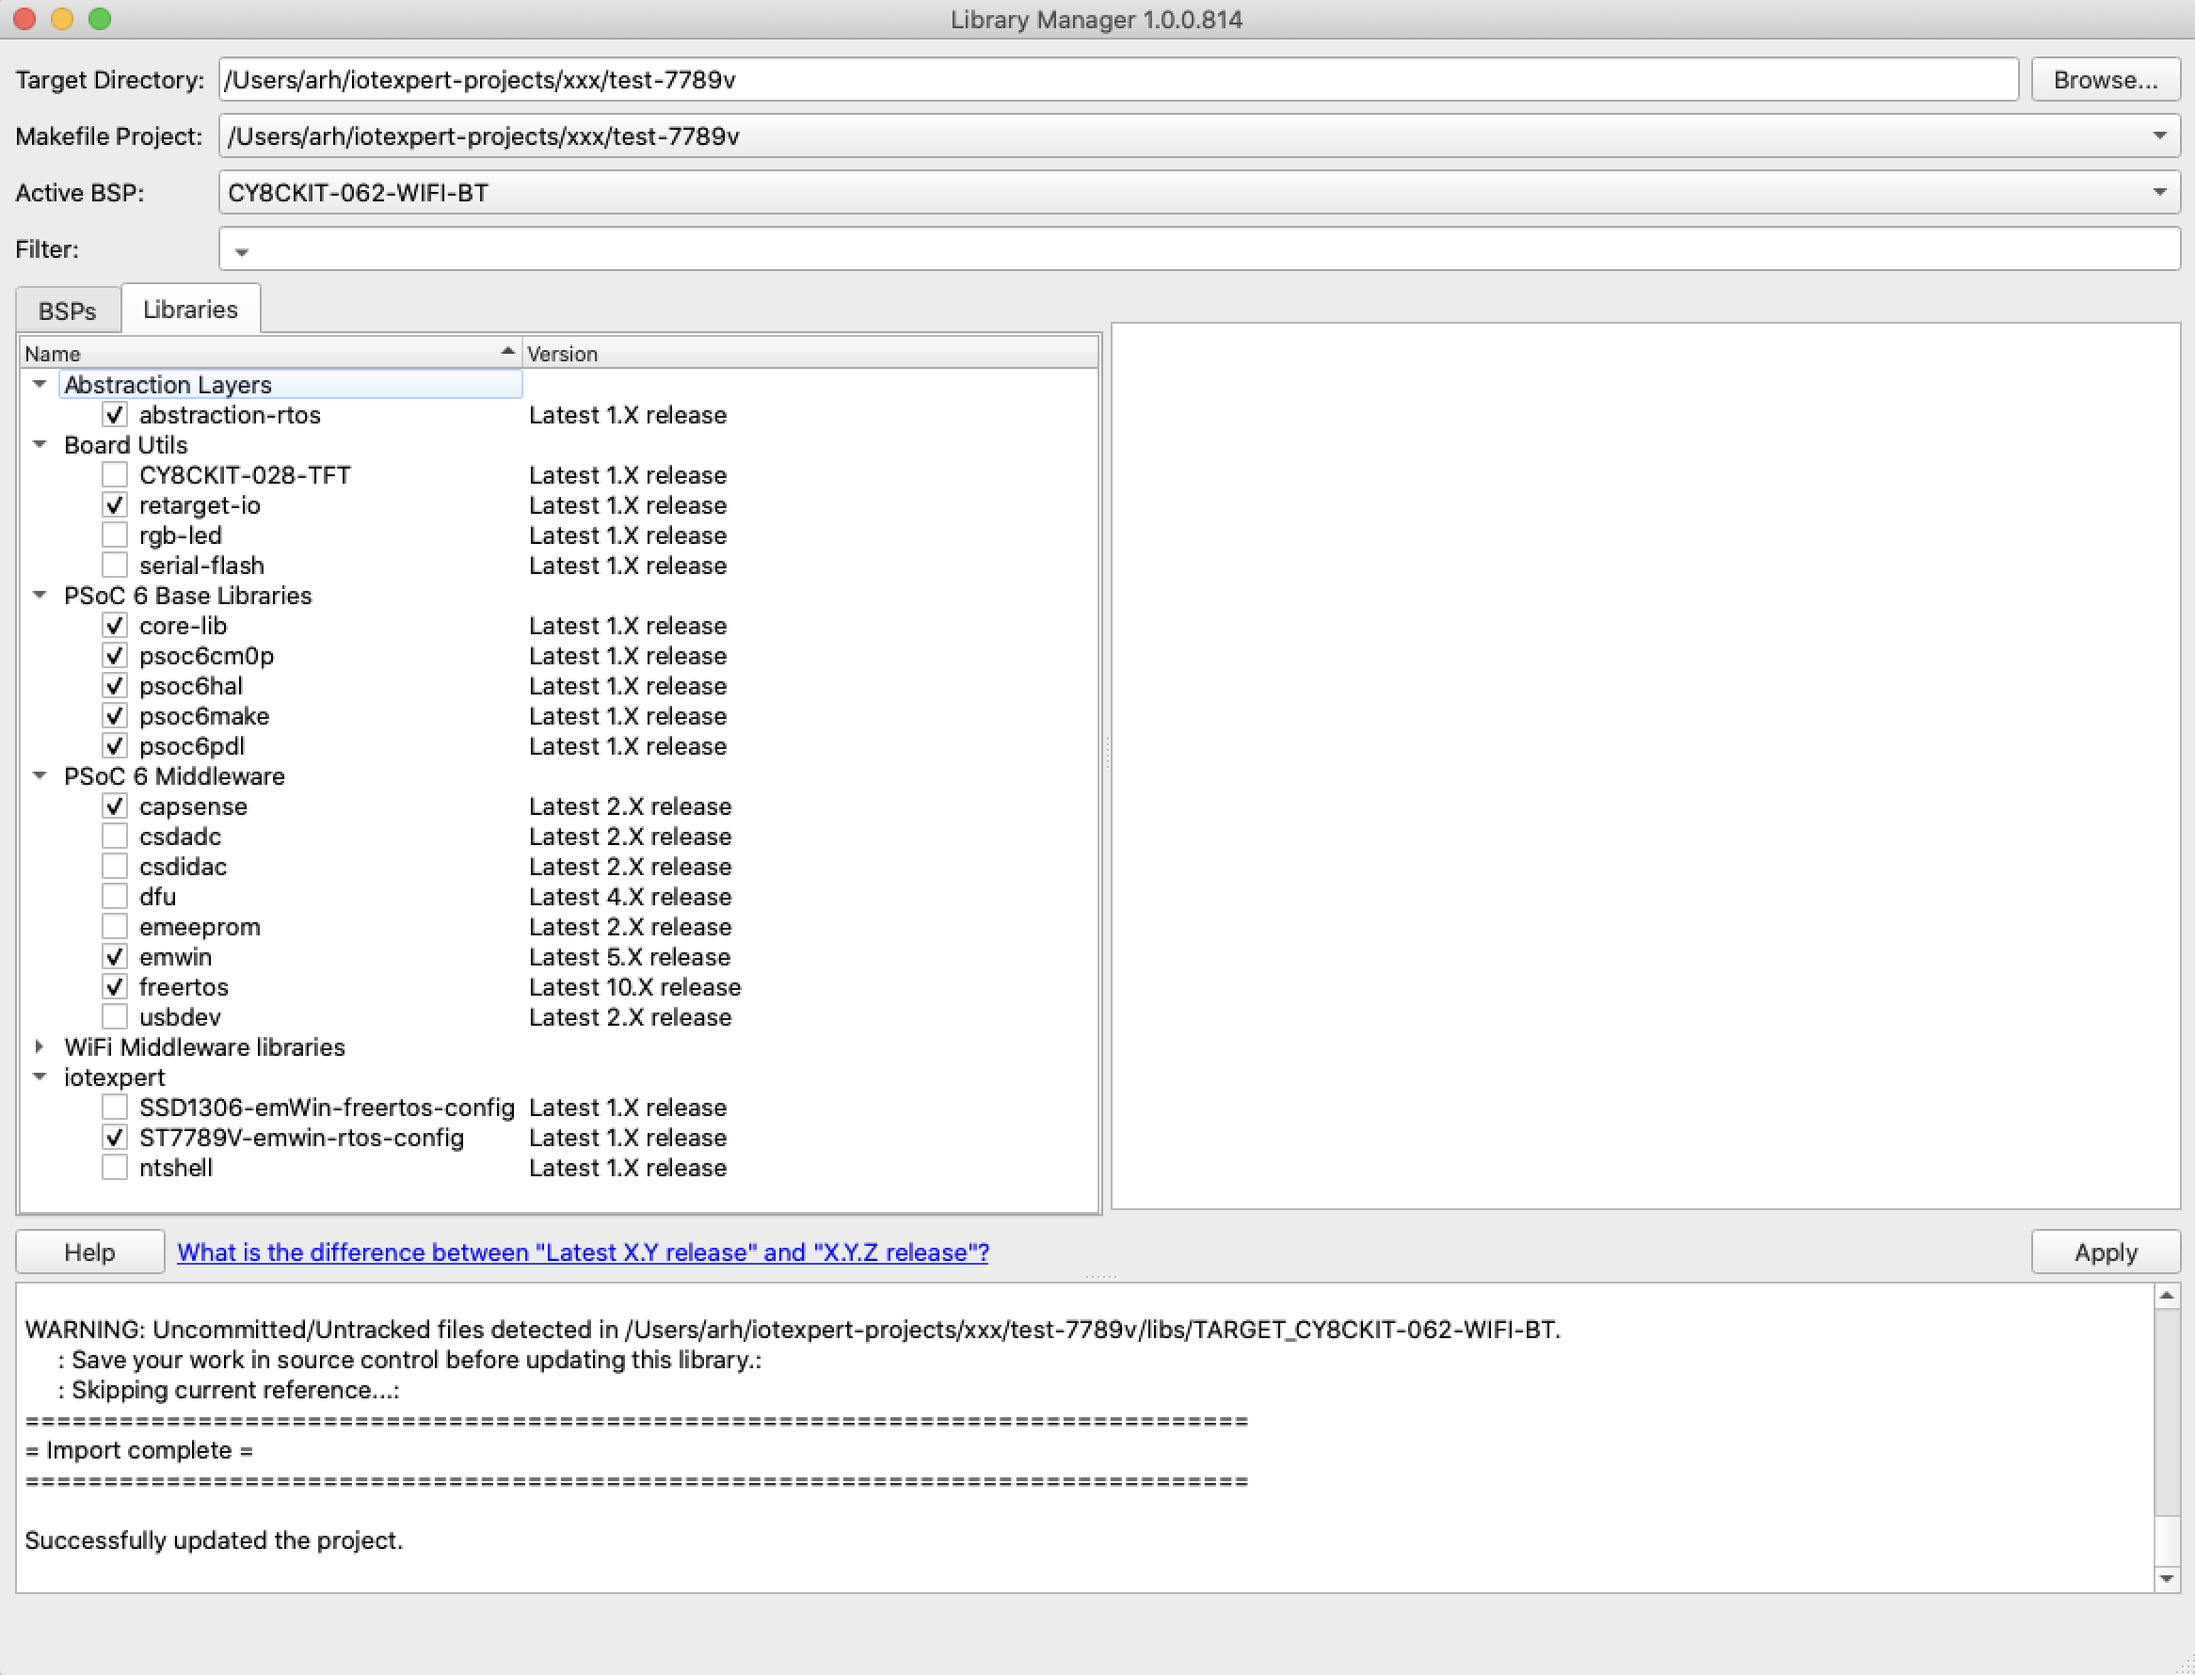
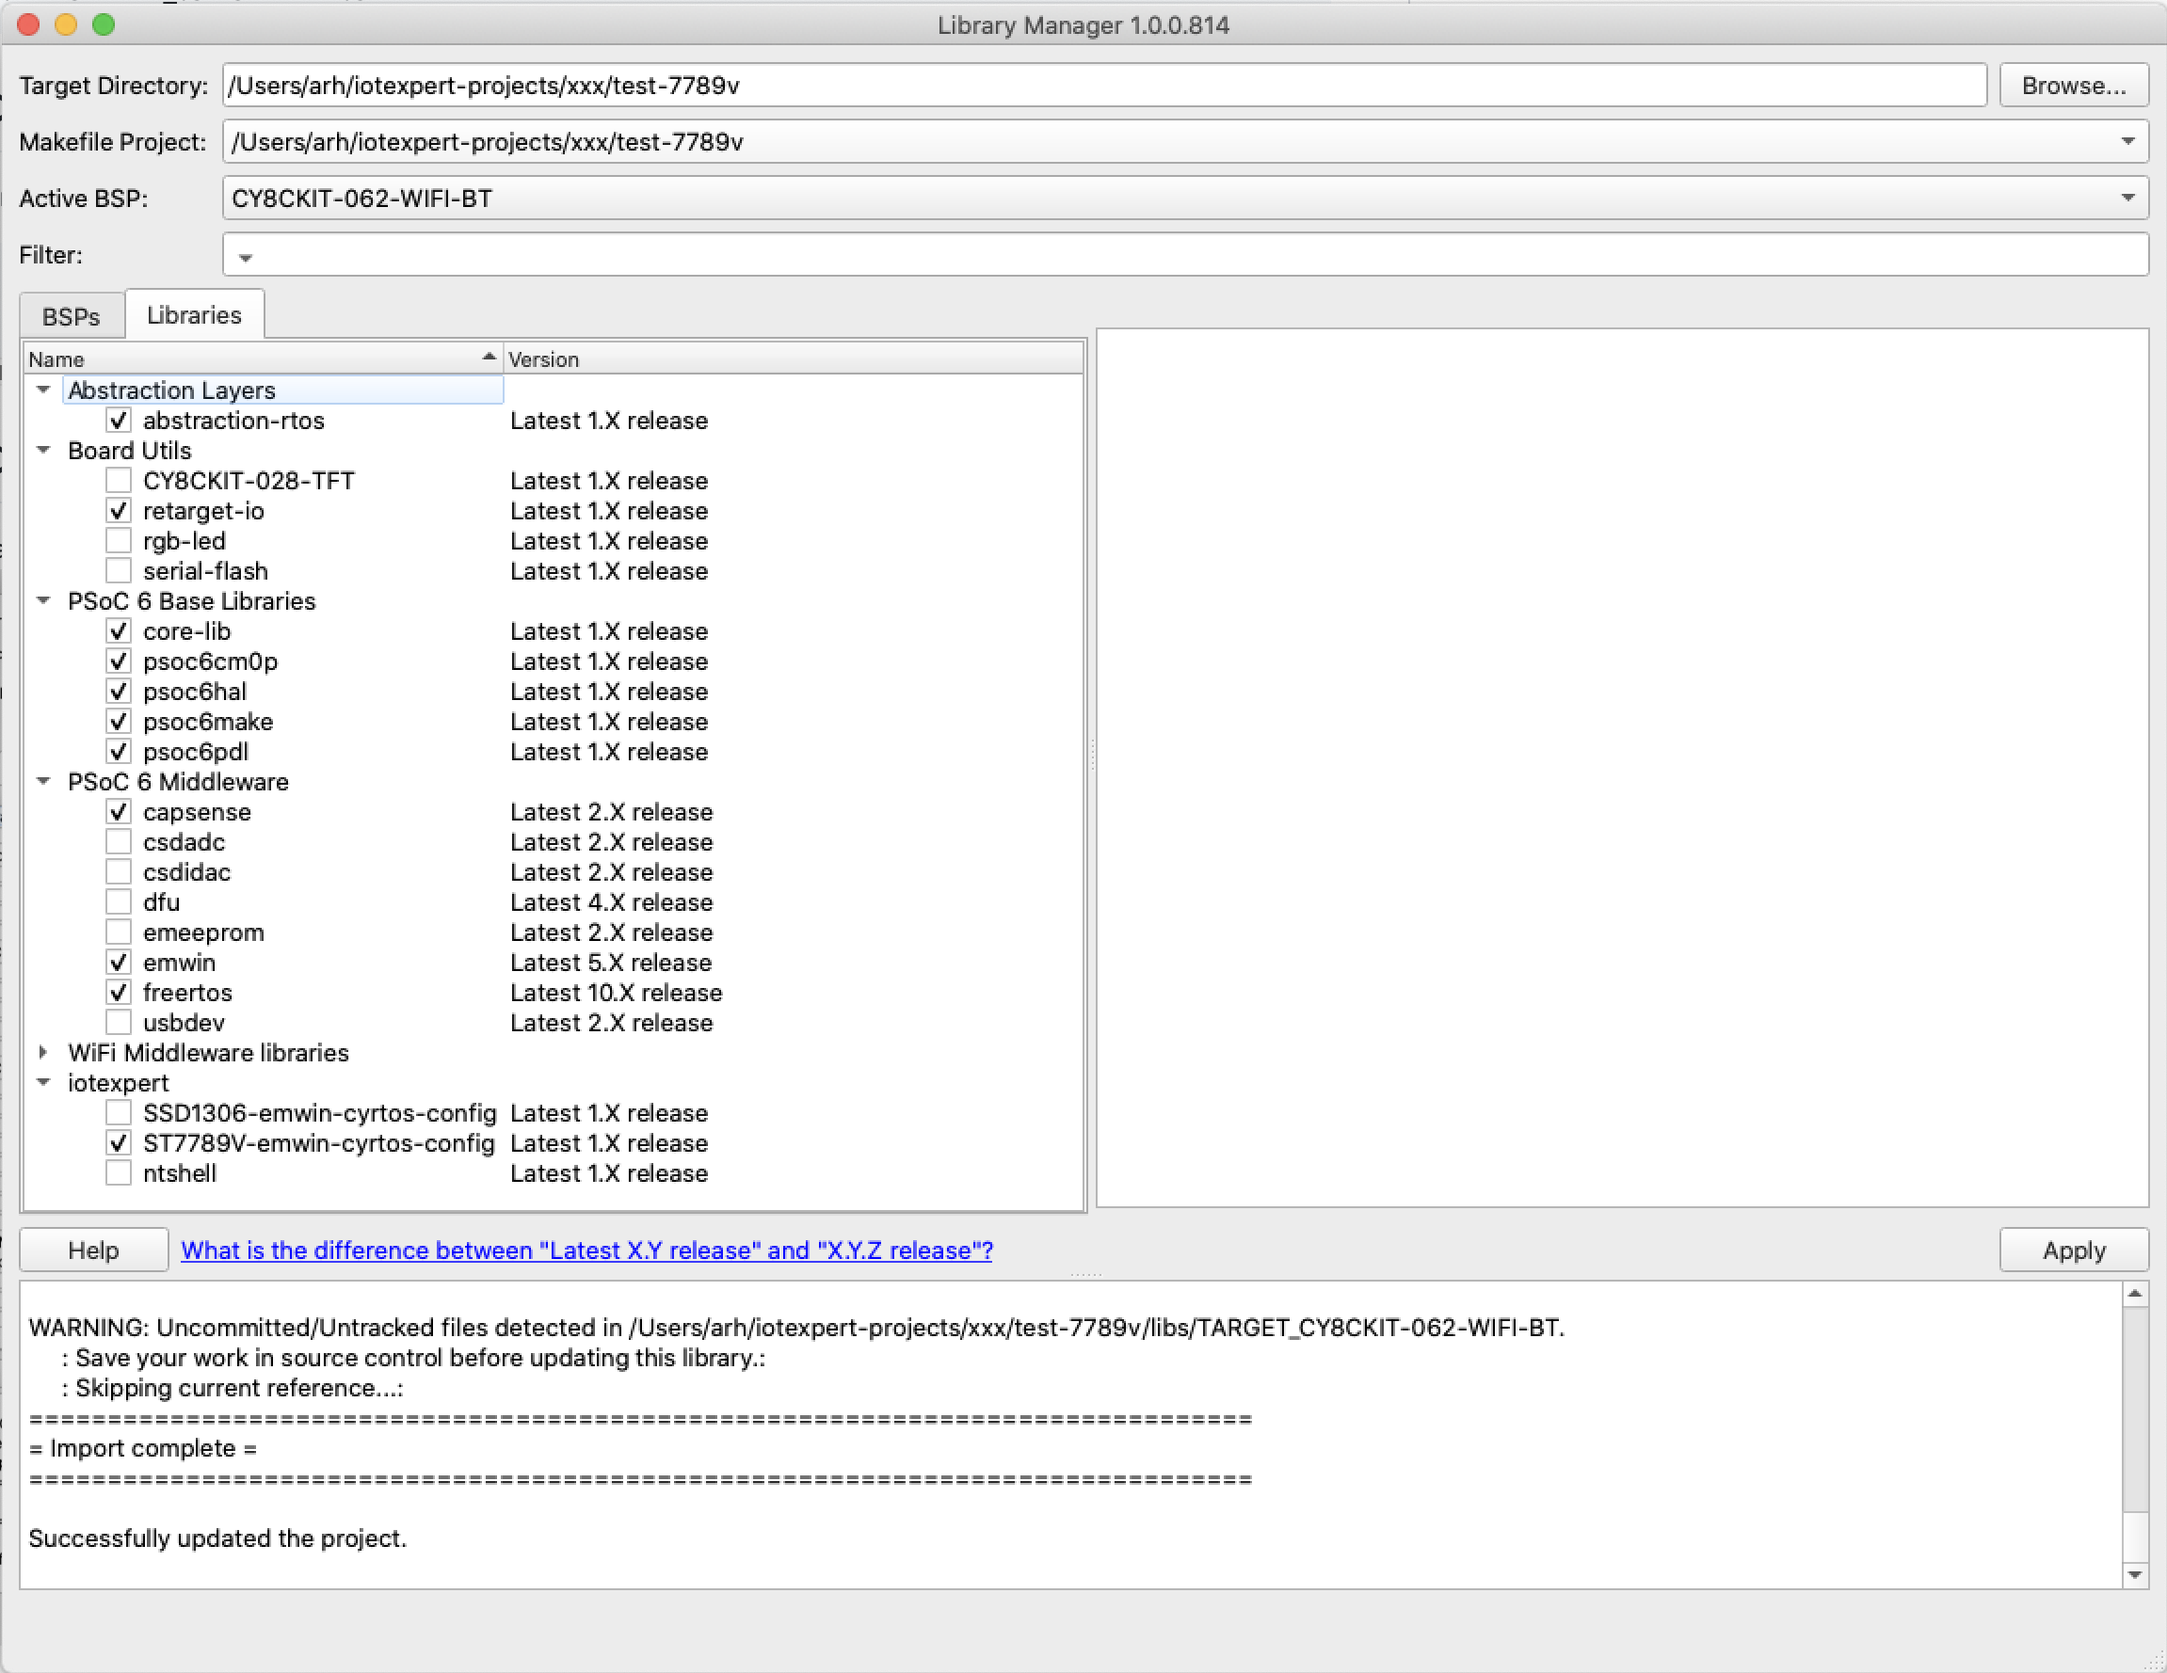
updated pictures

diff --git a/README.md b/README.md
@@ -39,7 +39,7 @@ COMPONENTS=EMWIN_OSNTS FREERTOS
 # Adding this Driver to your project manually
 You can add this driver to your project by:
 ```
-echo "https://github.com/iotexpert/p6sdk-st7789v-emwin-cyrtos-config/#master" > p6sdk-st7789v-emwin-rtos-config.lib
+echo "https://github.com/iotexpert/p6sdk-st7789v-emwin-cyrtos-config/#master" > p6sdk-st7789v-emwin-cyrtos-config.lib
 make getlibs
 ```
 # Adding this Driver to your project with the Library Manager
